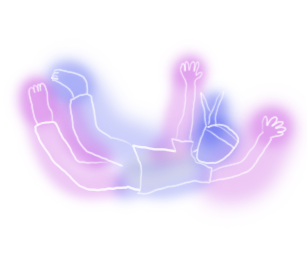
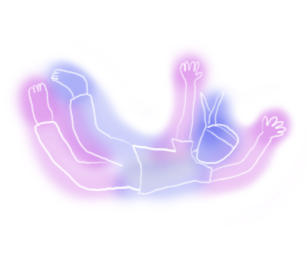
Added a Falling.js scene

diff --git a/projects/LSD/js/Falling.js b/projects/LSD/js/Falling.js
@@ -1,0 +1,76 @@
+let falling; // Object Variable
+let fallingMan = {
+  ani: undefined,
+  x: 684,
+  y: 130,
+  vx: 0,
+  ax: 0,
+  accelaration: 0.4,
+  maxSpeed: 8
+}
+
+class Falling {
+  constructor(fallingMan){
+
+  }
+
+  moveMan(){
+    if (scene === "falling"){
+      if (mouseX < fallingMan.x) {
+        fallingMan.ax = -fallingMan.accelaration; // Negative horizontal accelaration value if fallingMan is right of mouse
+      } else {
+        fallingMan.ax = fallingMan.accelaration; // Positive horizontal accelaration value if fallingMan is left of mouse
+      }
+      // Accelaration properties of the fallingMan
+      fallingMan.vx = fallingMan.vx + fallingMan.ax;
+      fallingMan.vx = constrain(fallingMan.vx, -fallingMan.maxSpeed, fallingMan.maxSpeed); // Limits horizontal speed
+
+      // Moves the fallingMan
+      fallingMan.x = fallingMan.x + fallingMan.vx;
+    }
+  }
+
+  displayMan(){
+    if (scene === "falling")
+      animation(fallingMan.ani, fallingMan.x, fallingMan.y)
+  }
+
+  background1(){
+    let linedist = random(20, 40);
+    for (let x = 0; x <= width; x = x + linedist) {
+      push();
+      strokeWeight(2);
+      stroke(255, 33);
+      line(x, 0, x, height);
+      pop();
+    }
+  }
+
+  displayOpenedMind(){
+    if (scene === "falling"){
+      noStroke();
+      colorMode(HSB, 255)
+      for (let y = 10; y < height; y += 10) {
+        for (let x = 10; x < 100; x += 10) { //create a grid of lines
+          stroke(noise(x / 100.0, y / 100.0, millis()/3000.0) * 360.0, 255, 255);
+          //color the lines with a noise field
+          let direction = noise(x / 250.0 + millis()/6000.0, y / 250.0, millis()/10000.0)*(TWO_PI*2.0);
+          //calculate direction of the hair using noise * 2PI then *2 for more motion
+          line(x, y, (sin(direction)*50.0)+x, (cos(direction)*50.0)+y);
+          //draw line from grid point to new point determined by direction plus offset
+        }
+      }
+
+      for (let y = 10; y < height; y += 10) {
+        for (let x = width - 100; x < width; x += 10) { //create a grid of lines
+          stroke(noise(x / 100.0, y / 100.0, millis()/3000.0) * 360.0, 255, 255);
+          //color the lines with a noise field
+          let direction = noise(x / 250.0 + millis()/6000.0, y / 250.0, millis()/10000.0)*(TWO_PI*2.0);
+          //calculate direction of the hair using noise * 2PI then *2 for more motion
+          line(x, y, (sin(direction)*50.0)+x, (cos(direction)*50.0)+y);
+          //draw line from grid point to new point determined by direction plus offset
+        }
+      }
+    }
+  }
+}

diff --git a/projects/LSD/js/script.js b/projects/LSD/js/script.js
@@ -1,6 +1,6 @@
 "use strict";
 
-let scene = "intro"; // State variable
+let scene = "falling"; // State variable
 
 // Asset variables
 let song;
@@ -76,6 +76,8 @@ function preload() {
   icon.peace = loadImage(`assets/images/brain/peace.png`)
   icon.social = loadImage(`assets/images/brain/social.png`)
   icon.home = loadImage(`assets/images/brain/home.png`)
+
+  fallingMan.ani = loadAnimation(`assets/images/falling/fall1.png`, `assets/images/falling/fall12.png`)
 }
 
 /**
@@ -91,6 +93,7 @@ function setup() {
   matrix = new Matrix(matrixData, buildings);
   juggle = new Juggle(brain, icon)
   starfield = new Starfield()
+  falling = new Falling(fallingMan)
 }
 
 /**
@@ -135,6 +138,12 @@ function draw() {
 
   starfield.setup()
   starfield.displayStarfield()
+
+  falling.moveMan()
+  falling.displayMan()
+  falling.background1()
+  falling.displayOpenedMind()
+
   // console.log(`x${mouseX}`); //25 913
   // console.log(`y${mouseY}`); //78 574
   // console.log(`Scene is ${scene}`); //25 913

diff --git a/projects/LSD/index.html b/projects/LSD/index.html
@@ -23,6 +23,7 @@
     <script src="js/Flower.js"></script>
     <script src="js/Juggle.js"></script>
     <script src="js/Starfield.js"></script>
+    <script src="js/Falling.js"></script>
     <script src="js/script.js"></script>
   </head>
 
